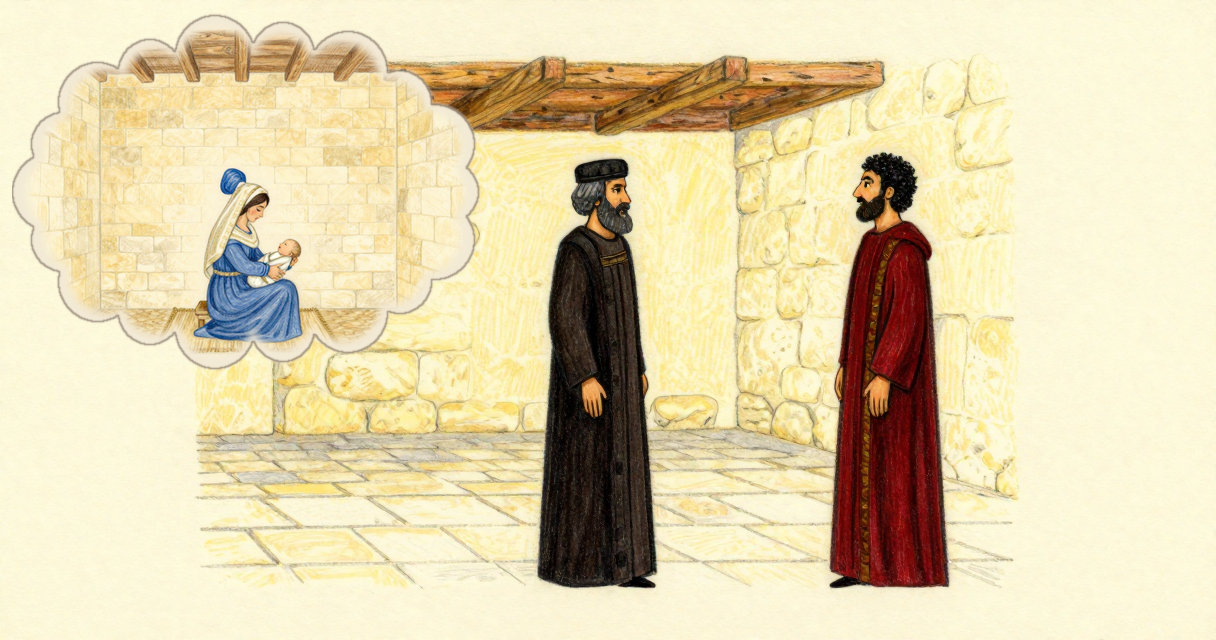
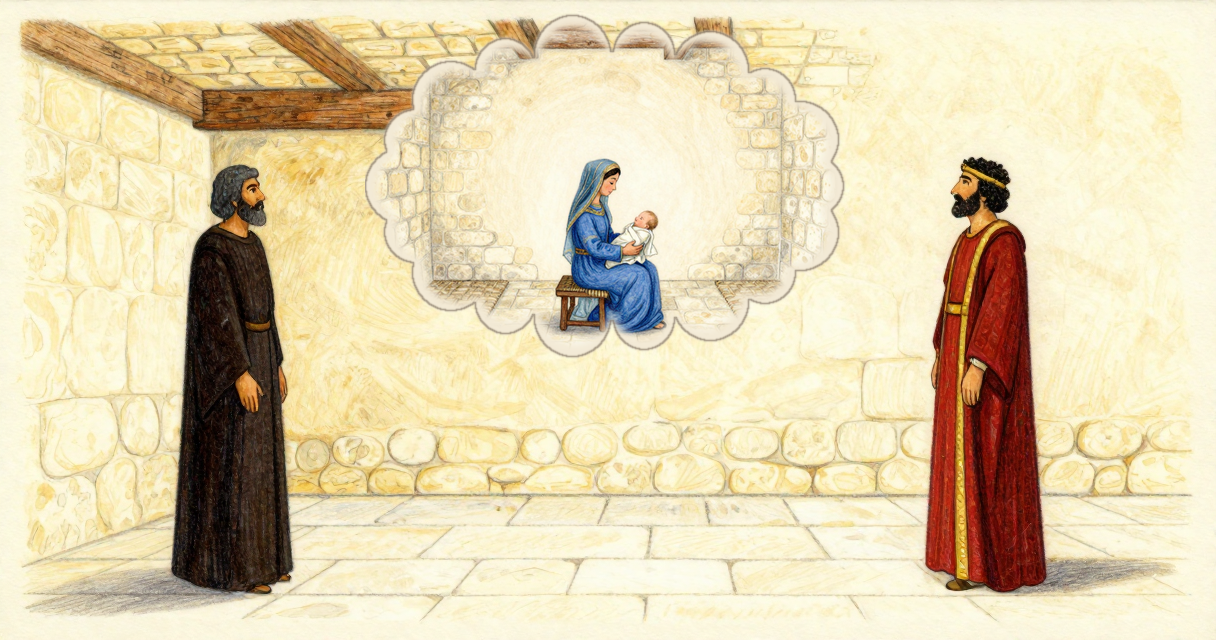
feat(canon): task 417 시도 2 — 곁 장면 구름을 두 사람 사이 위 가운데로(사람 판정 4 메모)
- 나단 왼쪽·다윗 오른쪽으로 벌리고 구름 0.30~0.70 × 0.02~0.56 — 둘이 나누는 이야기의 주제로 읽히게, 화면 가로 전체 사용
- 곁 장면에 「KING DAVID'S」 글자 판 → 배경 영문의 고유 이름 소유격을 「the king's house」로(한글 근거 그대로) — 글자 없어짐
- 판정 화면 판 1 그림 깨짐: 원문 자리표를 그림 base64 뒤에 바꿔 데이터 속 같은 글자까지 바뀜 → 판 2·3 고침

Claude-Session: https://claude.ai/code/session_017xfXg4nsVPZYcUmVMvn4aM

diff --git a/scripts/canon/notes/BIRTH-INSET.md b/scripts/canon/notes/BIRTH-INSET.md
@@ -44,4 +44,20 @@
 ## S3 사람 판정
 
 - 화면 https://claude.ai/artifact/LXx5wZnQjwrEM15YwMMh36 — 합성 그림(1~3× 확대) · 12:24-25 원문(12:25 굵게) · 문항 하나 「다른 때로 읽히나」(1 예 / 2 생각·꿈 / 3 같은 방 / 4 다른 문제) · 구름 이음새 원래 화소 2× 확대.
-- 사람 답: 대기
+- 판 1은 그림이 깨져 보임(사람 지적) — 원문 자리표 「Q24」「Q25」를 그림 base64를 넣은 뒤에 바꿔 데이터 속 같은 글자까지 바뀜 → 판 2(그림 먼저 고유 자리표 `@@IMG_*@@`로).
+- 사람 답(판 2): **판정 4** · 메모 「구름을 가운데 위치시키면 나으려나? 그럼 해당 장면에 대한 이야기를 하고 있는 것처럼 보이지 않을까? 가운데로 위치시키면 그림 사이즈 전체를 사용 가능도 하고」
+
+## 시도 2 — 구름을 두 사람 사이 위 가운데로(사람 제안)
+
+- 구름 = 나단이 다윗에게 전하는 이야기의 주제(그 아들) — 한쪽 인물 머리 곁이 아니라 둘 사이 위라 한 사람의 생각으로 덜 읽힘 · 화면 가로 전체를 씀.
+- 큰 장면 구역: 나단 왼쪽 0.12~0.26 · 다윗 오른쪽 0.74~0.88(같은 발 y 0.92 · 높이 0.65 그대로) · 구름 0.30~0.70 × 0.02~0.56.
+
+
+| 시도 | 바꾼 것 | 결과 |
+|---|---|---|
+| 2a | 구름 가운데 위 · 인물 양 끝 · 곁 장면 896×640 | 구도는 뜻대로(둘 사이 이야기) · **곁 장면 위쪽에 「KING DAVID'S」 글자 판**(try2-*) — 배경 문구 「in King David's house」 고유 이름이 간판으로 |
+| 2b | 두 명세 whole_background.en 「in King David's house」 → 「in the king's house」(한글 근거 그대로) | 글자 없음 — 쓰는 판 `comp-s42.png` |
+
+- 남은 눈 결함(사람에게 알림): 곁 장면 가운데가 밝게 번져 밧세바 뒤 후광처럼 보임(성모자상 느낌 강해짐) · 큰 장면 다윗 머리 금띠(카드는 머리쓰개 없음).
+- 규칙 후보(관찰 1장): 배경 문구의 고유 이름 소유격(「King David's house」)은 간판 글자로 그려질 수 있음 — 더 모이면 derive 규칙.
+- 판정 화면 판 3(같은 주소, 같은 문항) — 사람 답: 대기
